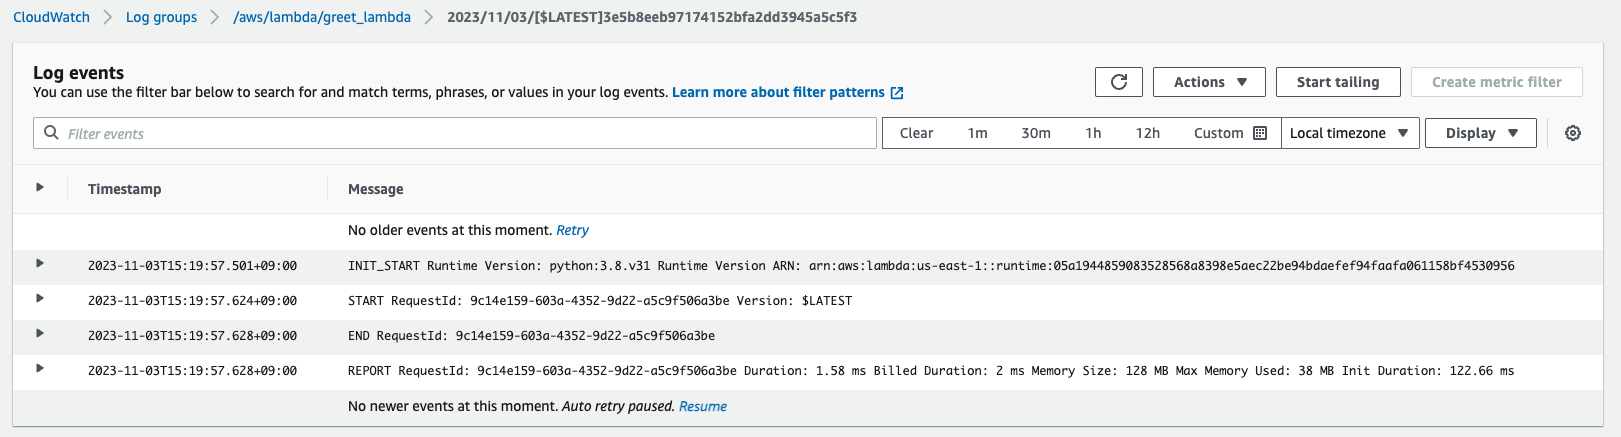
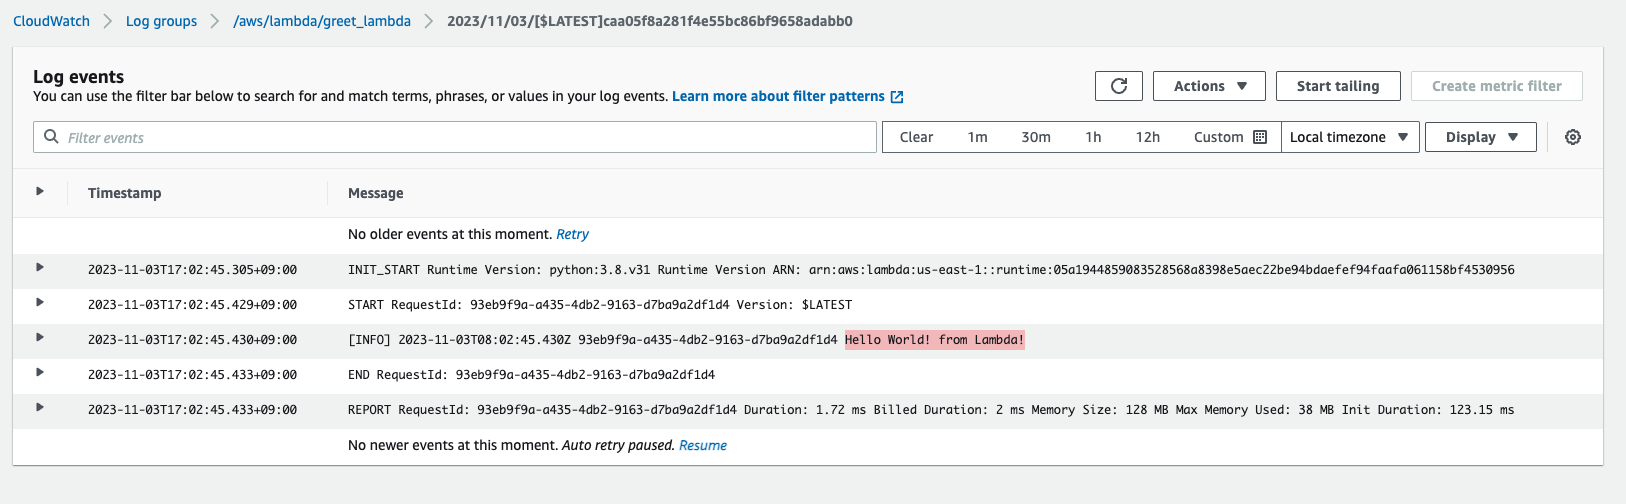
update

diff --git a/Exercise_2/greet_lambda.py b/Exercise_2/greet_lambda.py
@@ -1,4 +1,12 @@
 import os
+import logging
+
+# Set up the logging configuration
+logger = logging.getLogger()
+logger.setLevel(logging.INFO)
 
 def lambda_handler(event, context):
-    return "{} from Lambda!".format(os.environ['greeting'])
+    # Log an info message
+    response = "{} from Lambda!".format(os.environ['greeting'])
+    logger.info(response)
+    return response
